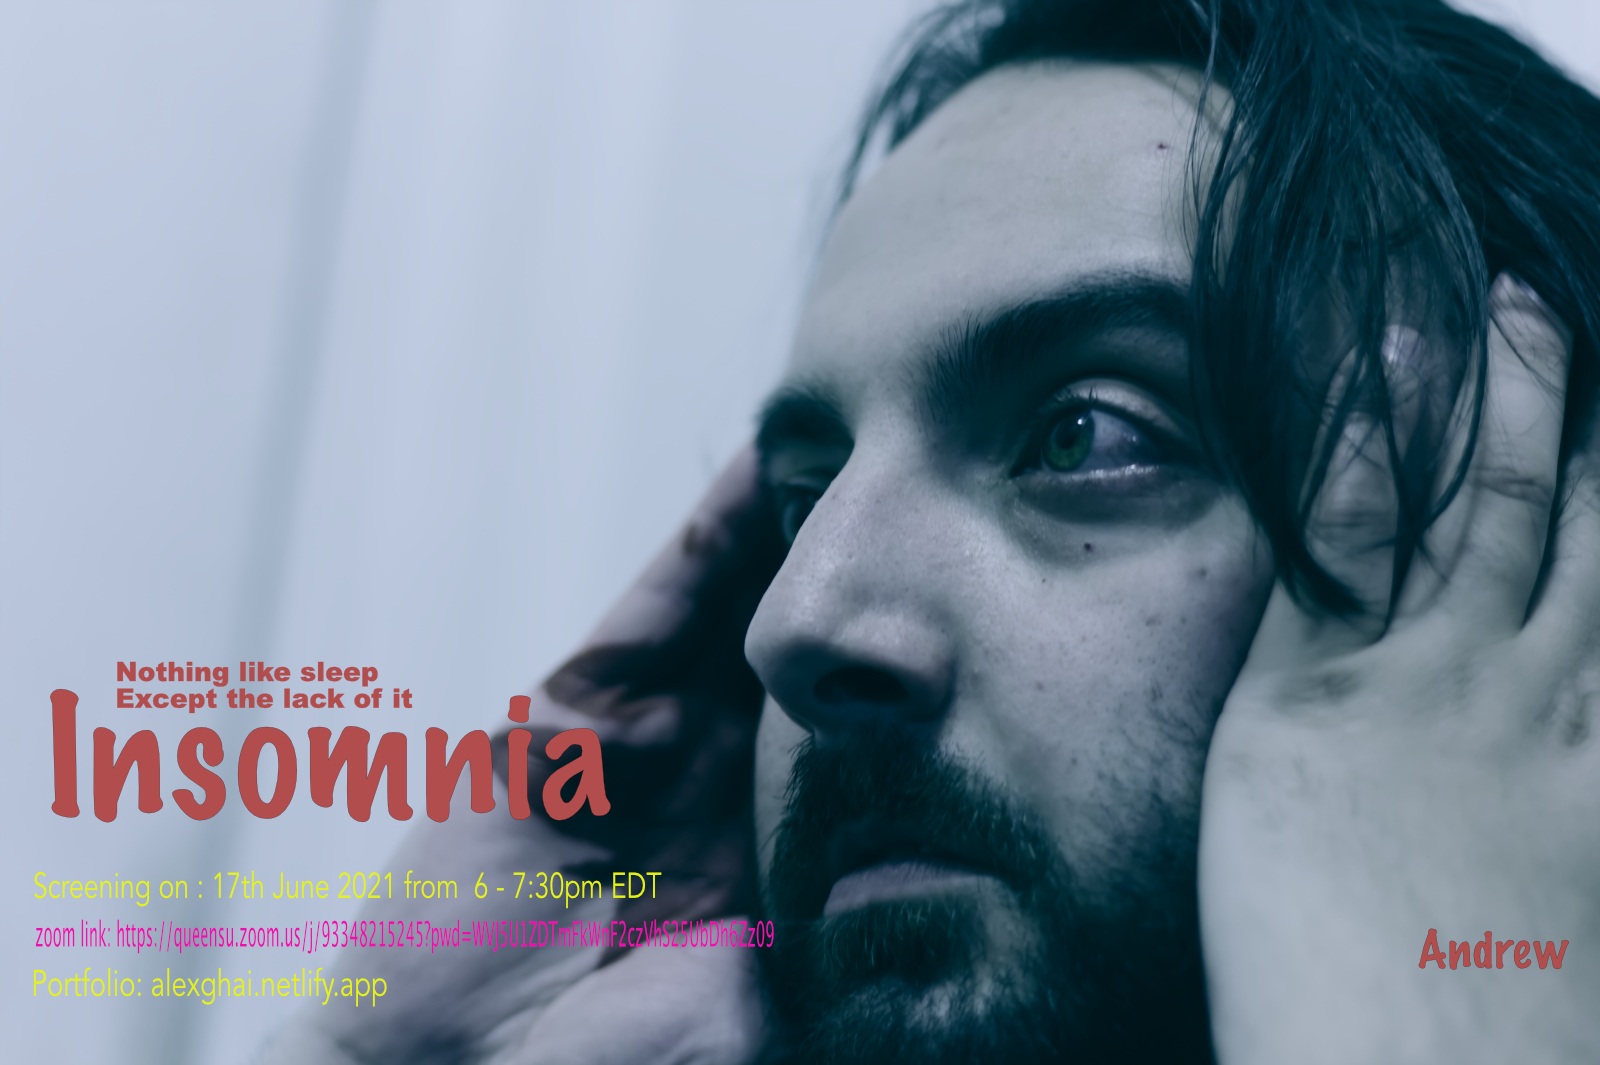
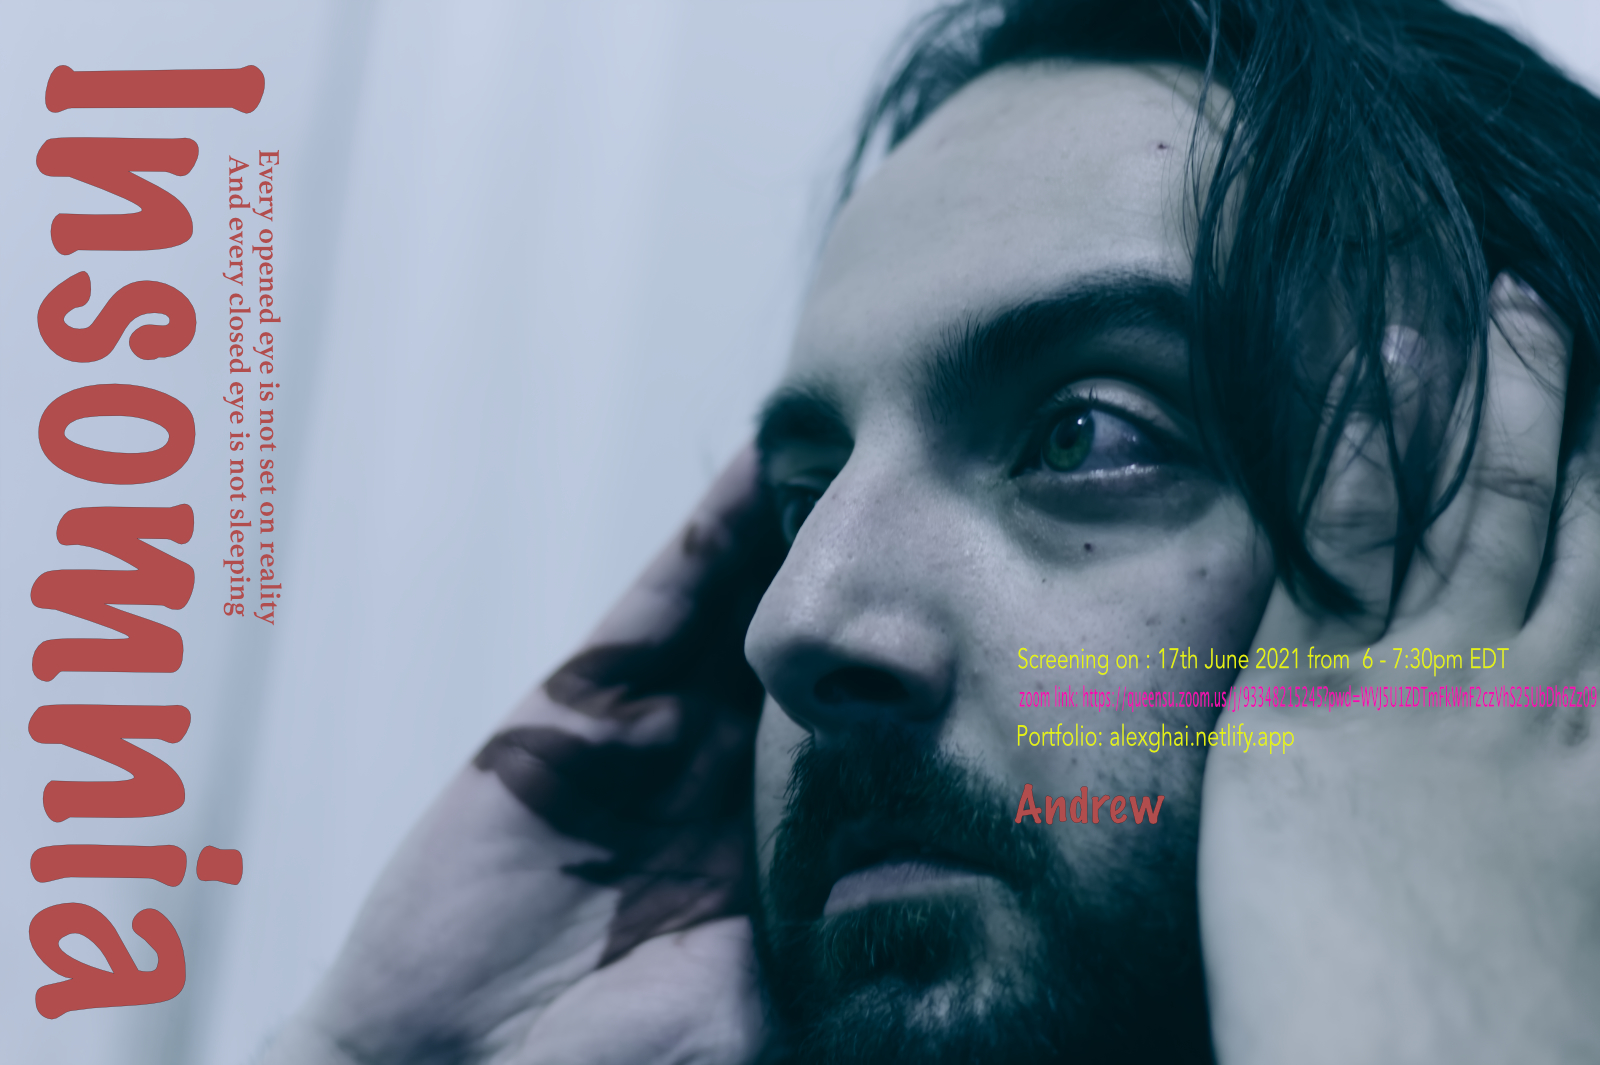
/

diff --git a/light/Film.html b/light/Film.html
@@ -88,7 +88,7 @@
           <div class="content-wrapper">
             
               <section class="shadow-box poster">
-                <img src="Tina/poster-og.jpg">
+                <img src="Tina/poster.jpg">
               </section>
             
         </div>
